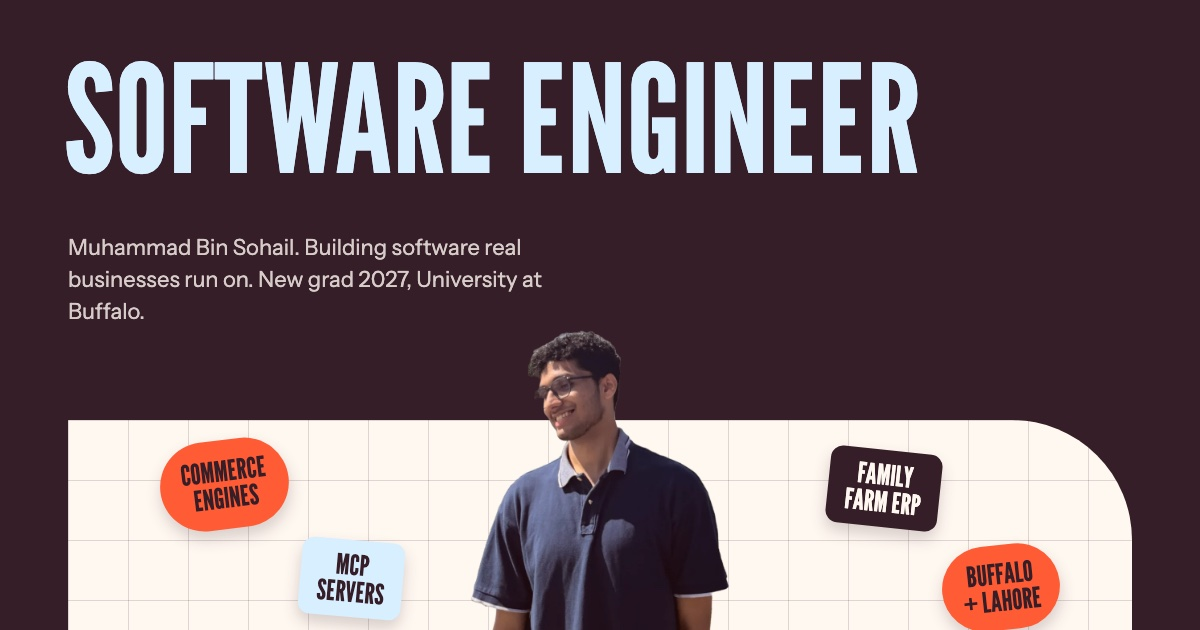
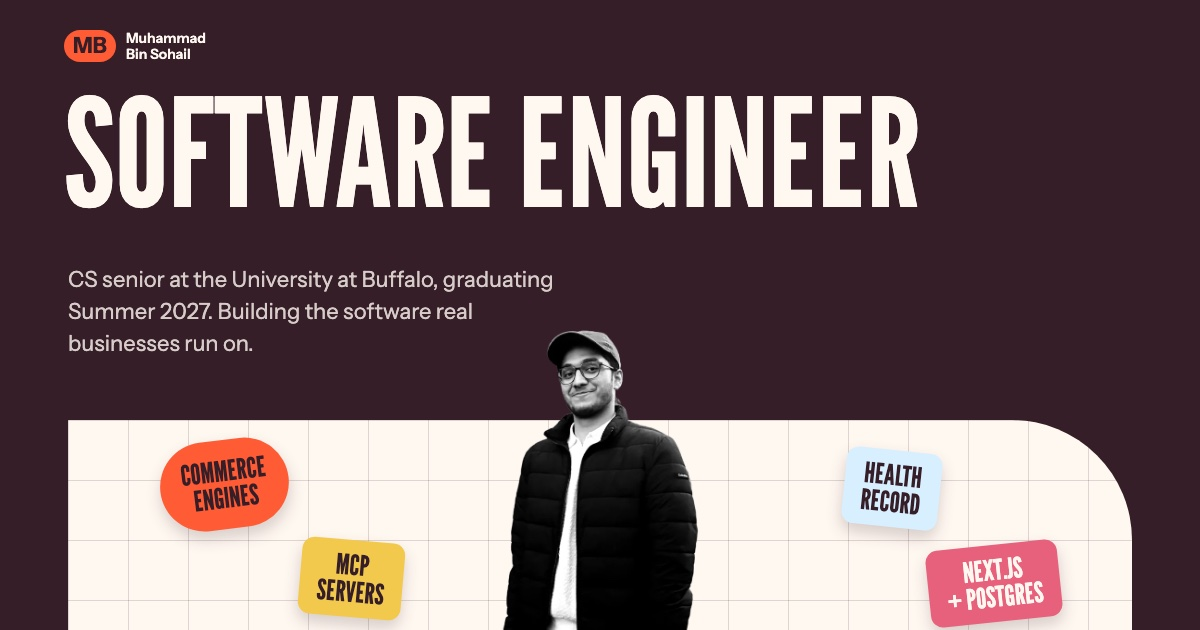
Pass 13: signature mark, black and white cutout, reference-style stickers, UB seal, flush stage

diff --git a/site/styles.css b/site/styles.css
@@ -30,31 +30,55 @@ body::before{content:"";position:fixed;inset:0;background:var(--grain);opacity:.
 .plink,.mail a,.links a,.mast li a{text-decoration:underline;text-decoration-thickness:1.5px;text-underline-offset:.22em;text-decoration-color:currentColor}
 .plink:hover{color:var(--tangerine)}
 
-/* hero: dark band, one giant title, two columns, a sticker stage with the cutout */
+/* hero: dark band with name mark, giant title, two columns, then a sticker stage that runs to the band's bottom edge */
 .hero{background:var(--cherry);color:var(--paper);padding:0}
-.hero-in{display:flex;flex-direction:column;min-height:100svh}
-.hero .mast{display:flex;align-items:center;justify-content:space-between;gap:16px;min-height:72px}
-.hero .mast .mark{font:400 30px/1 var(--display);letter-spacing:.04em;color:var(--tangerine);display:inline-flex;align-items:center;min-height:40px}
+.hero-in{display:flex;flex-direction:column}
+.hero .mast{display:flex;align-items:center;justify-content:space-between;gap:16px;min-height:80px}
+.hero .mast .mark{display:inline-flex;align-items:center;gap:12px;min-height:44px}
+.sig{display:block;flex:none}
+.mark-t{font-size:14px;line-height:1.15;font-weight:600;color:var(--paper)}
 .hero .mast ul{display:flex;gap:22px;font-size:15.5px;font-weight:500}
 .hero .mast li a{display:inline-flex;align-items:center;min-height:36px;color:var(--paper);text-decoration-color:transparent}
 .hero .mast li a:hover{text-decoration-color:currentColor}
-.hero h1{margin-top:clamp(24px,5vh,56px);font:400 clamp(72px,11.8vw,176px)/.88 var(--display);text-transform:uppercase;letter-spacing:.005em;color:var(--blue);white-space:nowrap}
-.intro{display:grid;grid-template-columns:1fr 1fr auto;gap:32px;align-items:start;margin-top:22px;font-size:15.5px;line-height:1.5;color:color-mix(in srgb,var(--paper) 78%,var(--cherry))}
+.hero h1{margin-top:clamp(28px,6vh,72px);font:400 clamp(72px,11.8vw,176px)/.88 var(--display);text-transform:uppercase;letter-spacing:.005em;color:var(--paper);white-space:nowrap}
+.intro{display:grid;grid-template-columns:1fr 1fr auto;gap:32px;align-items:start;margin:22px 0 36px;font-size:15.5px;line-height:1.5;color:color-mix(in srgb,var(--paper) 72%,var(--cherry))}
 .intro p{max-width:40ch}
-.cta{display:inline-flex;align-items:center;gap:8px;align-self:center;justify-self:end;min-height:44px;padding:0 4px;font-weight:700;font-size:15px;letter-spacing:.06em;text-transform:uppercase;color:var(--paper);border-bottom:2px solid var(--tangerine);position:relative}
+.cta{display:inline-flex;align-items:center;gap:8px;align-self:center;justify-self:end;min-height:44px;padding:0 4px;font-weight:700;font-size:15px;letter-spacing:.06em;text-transform:uppercase;color:var(--paper);border-bottom:2px solid var(--tangerine)}
 .cta .arrow{display:inline-block;color:var(--tangerine);animation:arrow-bob 1.8s ease-in-out infinite}
 .cta:hover{color:var(--tangerine)}
 @keyframes arrow-bob{0%,100%{transform:translateY(0)}50%{transform:translateY(4px)}}
-.stage{position:relative;flex:1;min-height:420px;margin-top:28px;margin-bottom:0;border-radius:0 240px 0 0;background:var(--paper) var(--grain);background-image:var(--grain),linear-gradient(var(--rule) 1px,transparent 1px),linear-gradient(90deg,var(--rule) 1px,transparent 1px);background-size:220px 220px,72px 72px,72px 72px;overflow:hidden;isolation:isolate}
-.cut{position:absolute;left:50%;bottom:0;height:min(98%,660px);z-index:1;width:auto;transform:translateX(-50%);filter:drop-shadow(0 18px 24px rgba(53,30,40,.28))}
-.stk{position:absolute;display:inline-block;padding:14px 20px;border-radius:14px;font:400 clamp(22px,2.3vw,34px)/.95 var(--display);text-transform:uppercase;letter-spacing:.02em;text-align:center;box-shadow:0 10px 20px rgba(53,30,40,.18);transition:transform .25s cubic-bezier(.2,.7,.2,1)}
+
+/* the stage: paper panel that bleeds to the left edge of the viewport, rounded on the right, flush with the band's bottom */
+.stage-wrap{position:relative;background:var(--cherry)}
+.stage-in{padding-right:var(--gutter);padding-left:0}
+.stage{position:relative;height:clamp(420px,54vh,560px);margin-left:calc(-1 * max(var(--gutter),(100vw - var(--max)) / 2 + var(--gutter)));border-radius:0 260px 0 0;background:var(--paper);background-image:var(--grain),linear-gradient(var(--rule) 1px,transparent 1px),linear-gradient(90deg,var(--rule) 1px,transparent 1px);background-size:220px 220px,72px 72px,72px 72px;overflow:hidden;isolation:isolate}
+.cut{position:absolute;left:50%;bottom:0;height:100%;width:auto;transform:translateX(-50%);z-index:1;filter:drop-shadow(0 16px 22px rgba(53,30,40,.25))}
+
+/* stickers, in the reference's language: a mark, a label, a quiet second line */
+.stk{position:absolute;display:inline-flex;flex-direction:column;align-items:center;gap:4px;padding:14px 18px;border-radius:16px;font:400 clamp(20px,2.1vw,30px)/.95 var(--display);text-transform:uppercase;letter-spacing:.02em;text-align:center;box-shadow:0 10px 20px rgba(53,30,40,.18);transition:transform .25s cubic-bezier(.2,.7,.2,1)}
+.stk b{font-weight:400;display:inline-flex;flex-direction:column;align-items:center;gap:4px}
+.stk small{font:600 10.5px/1.2 var(--sans);letter-spacing:.06em;text-transform:uppercase;opacity:.85;display:inline-flex;align-items:center;gap:4px}
+.stk svg{width:22px;height:22px;fill:none;stroke:currentColor;stroke-width:2;stroke-linecap:round;stroke-linejoin:round}
+.stk small svg{width:12px;height:12px;stroke-width:2.2}
+.stk .star{width:14px;height:14px;fill:currentColor;stroke:none;margin-left:4px;vertical-align:top}
+.stk .chip{display:inline-block;margin-top:2px;padding:3px 10px 2px;border-radius:999px;background:var(--cherry);color:var(--paper);font-size:.72em;letter-spacing:.04em}
+.stk-4 .chip{background:var(--paper);color:#E8617C}
 .stk:hover{transform:rotate(0) scale(1.06)!important;z-index:3}
-.stk-1{left:12%;top:10%;transform:rotate(-8deg);background:var(--tangerine);color:var(--cherry);border-radius:999px;padding:24px 26px}
-.stk-2{left:22%;top:50%;transform:rotate(5deg);background:var(--blue);color:var(--cherry)}
-.stk-3{left:33%;top:76%;z-index:2;transform:rotate(-4deg);background:var(--cherry);color:var(--blue)}
-.stk-4{right:24%;top:12%;z-index:2;transform:rotate(6deg);background:var(--cherry);color:var(--paper)}
-.stk-5{right:13%;top:42%;transform:rotate(-7deg);background:var(--blue);color:var(--cherry)}
-.stk-6{right:20%;top:70%;z-index:2;transform:rotate(4deg);background:var(--tangerine);color:var(--cherry);border-radius:999px;padding:22px 24px}
+.stk-circle{border-radius:999px;padding:22px 24px;aspect-ratio:1;justify-content:center}
+.stk-tag{flex-direction:column;align-items:flex-start;gap:4px;padding:12px 18px}
+.stk-tag b{flex-direction:column;align-items:flex-start}
+.stk-tag small{display:inline-flex;text-align:left;white-space:normal;max-width:22ch}
+.stk-rect{padding:14px 20px}
+.stk-seal{padding:0;width:124px;height:124px;border-radius:999px;background:var(--tangerine);color:var(--cherry);display:grid;place-items:center;box-shadow:0 10px 20px rgba(53,30,40,.18)}
+.stk-seal>svg{position:absolute;inset:0;width:100%;height:100%;stroke:none;fill:none}
+.stk-seal text{font:700 11.5px var(--sans);letter-spacing:.14em;text-transform:uppercase;fill:var(--cherry)}
+.stk-seal img{position:relative;display:block;width:68px;height:68px}
+.stk-1{left:7%;top:10%;transform:rotate(-7deg);background:var(--blue);color:var(--cherry)}
+.stk-2{left:4%;top:58%;transform:rotate(4deg);background:#F2C94C;color:var(--cherry);max-width:min(34vw,330px)}
+.stk-3{left:24%;top:30%;z-index:2;transform:rotate(-5deg);background:var(--tangerine);color:var(--cherry)}
+.stk-4{right:7%;top:8%;z-index:2;transform:rotate(5deg);background:#E8617C;color:var(--paper)}
+.stk-5{right:24%;top:46%;transform:rotate(-6deg);background:var(--blue);color:var(--cherry)}
+.stk-6{right:8%;top:62%;z-index:2;transform:rotate(6deg)}
 .btn{display:inline-flex;align-items:center;min-height:44px;padding:0 22px;border:2px solid var(--cherry);border-radius:999px;font-weight:600;font-size:16px;transition:background .15s,color .15s}
 .btn:first-child{background:var(--cherry);color:var(--blue)}
 .btn:hover{background:var(--blue);color:var(--cherry)}
@@ -130,17 +154,26 @@ body::before{content:"";position:fixed;inset:0;background:var(--grain);opacity:.
 }
 @media (max-width:760px){
   .hero h1{font-size:clamp(54px,15.5vw,80px);white-space:normal;line-height:.9}
-  .intro{grid-template-columns:1fr;gap:12px;font-size:15px}
+  .intro{grid-template-columns:1fr;gap:12px;font-size:15px;margin-bottom:28px}
   .cta{justify-self:start;margin-top:4px}
-  .stage{min-height:460px;border-radius:0 120px 0 0;margin-top:20px}
-  .cut{height:min(78%,440px)}
-  .stk{padding:10px 14px;font-size:17px;box-shadow:0 6px 14px rgba(53,30,40,.18)}
-  .stk-1{left:4%;top:6%;padding:16px 18px}
-  .stk-2{left:3%;top:40%}
-  .stk-3{left:6%;top:76%}
-  .stk-4{right:4%;top:8%}
-  .stk-5{right:3%;top:38%}
-  .stk-6{right:5%;top:70%;padding:14px 16px}
+  .stage-in{padding-right:0}
+  .stage{height:520px;margin-left:0;border-radius:0 110px 0 0}
+  .cut{height:74%;z-index:1}
+  .stk{z-index:2}
+  .stk{padding:10px 12px;font-size:16px;box-shadow:0 6px 14px rgba(53,30,40,.18)}
+  .stk small{font-size:9px}
+  .stk svg{width:16px;height:16px}
+  .stk-circle{padding:14px 14px}
+  .stk-seal{width:96px;height:96px}
+  .stk-seal img{width:52px;height:52px}
+  .stk-seal text{font-size:9px;letter-spacing:.1em}
+  .mark-t{display:none}
+  .stk-1{left:3%;top:5%}
+  .stk-2{left:2%;top:42%;max-width:48vw}
+  .stk-3{left:3%;top:74%}
+  .stk-4{right:2%;top:4%;max-width:50vw}
+  .stk-5{right:2%;top:38%;max-width:44vw}
+  .stk-6{right:4%;top:70%}
 }
 @media (max-width:380px){.mast ul{gap:12px;font-size:14px}}
 @media (prefers-reduced-motion:reduce){*{transition:none!important;animation:none!important}}

diff --git a/site/index.html b/site/index.html
@@ -16,6 +16,7 @@
 <link rel="preload" as="font" type="font/woff2" href="assets/fonts/LeagueGothic-Regular.woff2" crossorigin>
 <link rel="preload" as="font" type="font/woff2" href="assets/fonts/InstrumentSans-var.woff2" crossorigin>
 <link rel="preload" as="image" href="assets/me-cut.webp">
+<link rel="preload" as="image" href="assets/ub-seal.png">
 <style>@font-face{font-family:'League Gothic';font-style:normal;font-weight:400;font-display:swap;src:url(assets/fonts/LeagueGothic-Regular.woff2) format('woff2')}
 @font-face{font-family:'Instrument Sans';font-style:normal;font-weight:400 700;font-display:swap;src:url(assets/fonts/InstrumentSans-var.woff2) format('woff2')}
 @font-face{font-family:'Kalam';font-style:normal;font-weight:400;font-display:swap;src:url(assets/fonts/Kalam-Regular.woff2) format('woff2')}</style>
@@ -28,7 +29,10 @@
 <header class="hero" id="top">
   <div class="wrap hero-in">
     <nav class="mast" aria-label="Primary">
-      <a class="mark" href="#top">MBS</a>
+      <a class="mark" href="#top" aria-label="Muhammad Bin Sohail, home">
+        <svg class="sig" viewBox="0 0 64 40" width="64" height="40" aria-hidden="true"><path d="M3 20c0-9 6-16 18-17h22c10 0 18 8 18 17s-8 17-18 17H21C9 36 3 29 3 20z" fill="#FF5C34"/><path d="M14 29V12l8 10 8-10v17" fill="none" stroke="#351E28" stroke-width="3.4" stroke-linecap="round" stroke-linejoin="round"/><path d="M38 12v17h6c4 0 6-2 6-4.5S48 20 44 20h-6h6c3.5 0 5.5-2 5.5-4s-2-4-5.5-4h-6" fill="none" stroke="#351E28" stroke-width="3.4" stroke-linecap="round" stroke-linejoin="round"/></svg>
+        <span class="mark-t">Muhammad<br>Bin Sohail</span>
+      </a>
       <ul>
         <li><a href="#work">Work</a></li>
         <li><a href="#contact">Contact</a></li>
@@ -37,19 +41,28 @@
     </nav>
     <h1>Software Engineer</h1>
     <div class="intro">
-      <p>I'm Muhammad Bin Sohail. Lately I built the front end and integrations of a commerce engine behind a group of health brands, and the ERP my family's three egg farms close their day in.</p>
-      <p>CS senior at the University at Buffalo, graduating Summer 2027. Looking for a new grad software role in the US. I like systems that a real business depends on.</p>
+      <p>I'm a CS senior at the University at Buffalo, graduating Summer 2027. I spent the last year on the front end and integrations of a commerce engine behind a group of health brands.</p>
+      <p>On the side I build the systems my own family runs on: an ERP for three egg farms and a health record that AI agents can write to. Looking for a new grad software role in the US.</p>
       <a class="cta" href="#work">See the work <span class="arrow" aria-hidden="true">↓</span></a>
     </div>
-    <div class="stage">
-      <img class="cut" src="assets/me-cut.webp" width="643" height="760" alt="Muhammad Bin Sohail smiling in a navy polo." fetchpriority="high">
-      <span class="stk stk-1">Commerce<br>engines</span>
-      <span class="stk stk-2">MCP<br>servers</span>
-      <span class="stk stk-3">Next.js<br>+ Postgres</span>
-      <span class="stk stk-4">Family<br>farm ERP</span>
-      <span class="stk stk-5">New grad<br>2027</span>
-      <span class="stk stk-6">Buffalo<br>+ Lahore</span>
-      <!-- Résumé: once MBS confirms the five numbers, copy Muhammad_Bin_Sohail_Resume_swe_web.pdf to assets/Muhammad_Bin_Sohail_Resume.pdf and add a link in .intro -->
+  </div>
+  <div class="stage-wrap">
+    <div class="wrap stage-in">
+      <div class="stage">
+        <img class="cut" src="assets/me-cut.webp" width="425" height="648" alt="Muhammad Bin Sohail in a cap and puffer jacket, smiling." fetchpriority="high">
+
+        <span class="stk stk-circle stk-1"><svg viewBox="0 0 24 24" aria-hidden="true"><circle cx="9" cy="12" r="6"/><circle cx="15" cy="12" r="6"/></svg><b>Commerce<br>engines</b><small>one catalog<br>many brands</small></span>
+
+        <span class="stk stk-tag stk-2"><b>MCP<span class="chip">servers</span></b><small><svg viewBox="0 0 24 24" aria-hidden="true"><rect x="3" y="5" width="18" height="14" rx="2"/><path d="M7 12h4M7 15h7"/></svg> agents read and propose</small></span>
+
+        <span class="stk stk-rect stk-3"><b><svg viewBox="0 0 24 24" aria-hidden="true"><path d="M4 13c3-6 13-6 16 0"/><path d="M8 13v4h8v-4"/></svg>Family<br>farm ERP</b><small>day closes when it reconciles</small></span>
+
+        <span class="stk stk-tag stk-4"><b>Next.js<span class="chip">+ Postgres</span></b><small>TypeScript, Tailwind, Supabase</small></span>
+
+        <span class="stk stk-rect stk-5"><b>Health<br>record<svg class="star" viewBox="0 0 24 24" aria-hidden="true"><path d="M12 2l2 7 7 2-7 2-2 7-2-7-7-2 7-2z"/></svg></b><small>a human says yes first</small></span>
+
+        <span class="stk stk-seal stk-6"><svg viewBox="0 0 120 120" aria-hidden="true"><defs><path id="ring" d="M60 60 m-44 0 a44 44 0 1 1 88 0 a44 44 0 1 1 -88 0"/></defs><text><textPath href="#ring" startOffset="2%">University at Buffalo ✶ New grad 2027 ✶ </textPath></text></svg><img src="assets/ub-seal.png" width="68" height="68" alt=""></span>
+      </div>
     </div>
   </div>
 </header>

diff --git a/IMPROVEMENT-PLAN.md b/IMPROVEMENT-PLAN.md
@@ -35,6 +35,7 @@ Source of truth for claims: notes/facts.md. Research: notes/research-0*.md. Skil
 18. Hosted showcase with a brand switcher over one real app.
 
 ## Pass log
+- 2026-10-21, pass 13. Hero to the reference: MB signature mark, black and white cutout, reference-style stickers with marks and second lines, UB seal badge, stage flush with the band. See site/snapshots/pass-13/NOTES.md.
 - 2026-10-21, pass 12. Sticker-stage hero (black cherry band, SOFTWARE ENGINEER, cutout portrait, six stickers), numbers off the cards, posters for the More projects, StoreKit as "shadcn for ecommerce" on its own subdomain. See site/snapshots/pass-12/NOTES.md.
 - 2026-10-21, pass 11. Five main projects linked to their own product sites (Healthpedia, EggFlow, Worn each on a closedloopintel.com subdomain with its own design), two-up grid on phones, Worn poster, eyebrows removed. Shipped on MBS's "push". See site/snapshots/pass-11/NOTES.md.
 - 2026-10-21, pass 10. Overnight overhaul from MBS's brief: three inks (Tangerine #FF5C34, Black Cherry #351E28, Cool Blue #D7EFFF) on paper, League Gothic display, a tangerine poster hero with the tagline "I build a system once and let brands, farms, or families wear it." The four Anatomy figures are replaced by four static two-ink grainy poster illustrations (site/art, style contract in STYLE.md). StoreKit is stripped to one line, no swatches or brand names. Contact is a Black Cherry band. Preview only. See site/snapshots/pass-10/NOTES.md.

diff --git a/site/snapshots/pass-13/NOTES.md b/site/snapshots/pass-13/NOTES.md
@@ -1,0 +1,1 @@
+Pass 13, 2026-10-21. Hero rebuilt closer to MBS's reference: MB pill signature mark with the name in two small lines, SOFTWARE ENGINEER in paper white, two first-person columns, SEE THE WORK with a bobbing arrow. Stage bleeds to the left viewport edge, one rounded corner on the right, flush with the band's bottom (no gap). Cutout is the cap-and-puffer Niagara-road photo in rich black and white (assets/me-cut.webp). Six stickers in the reference's language (mark, label, second line, mixed shapes and colours): Commerce engines, MCP servers, Family farm ERP, Next.js + Postgres, Health record, and a UB seal ring badge (assets/ub-seal.png, cherry ink, "University at Buffalo, New grad 2027" around the rim). Mobile: smaller figure, stickers above it, none on the face. No overflow at 390 or 1280, no tap target under 24 px, no dashes or middle dots. OG card redrawn.
